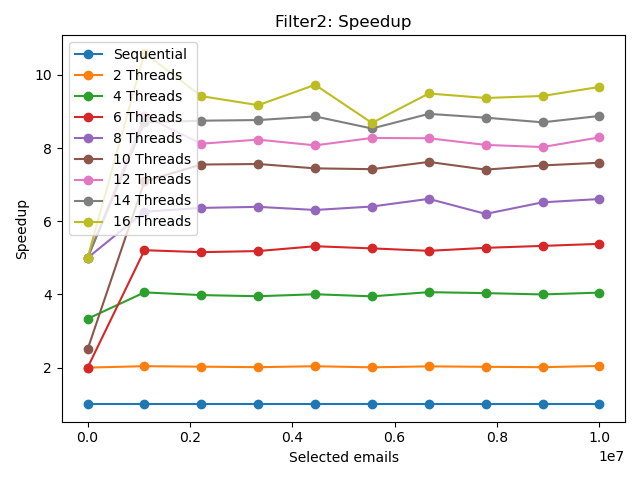
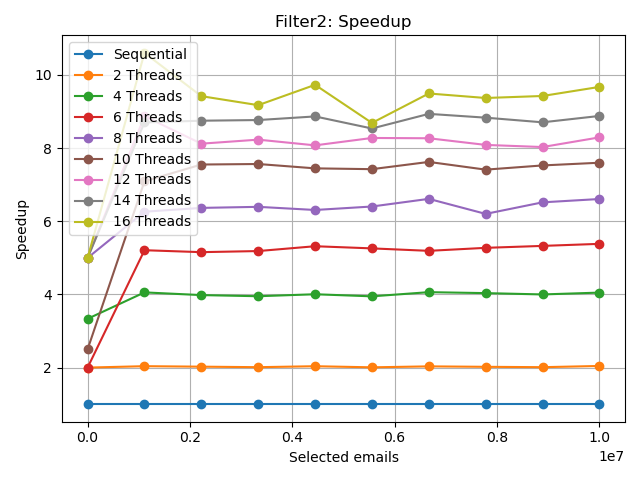
refactor project

diff --git a/plot_bf_results.py b/plot_bf_results.py
@@ -4,84 +4,112 @@ import matplotlib.pyplot as plt
 
 def plot():
     # Read the setup.csv file
-    df = pd.read_csv('./results/csv/setup.csv', sep=';')
+    fprs = ['001', '005', '010']
+    for fpr in fprs:
+        df = pd.read_csv('./results/openmp/'+fpr+'/setup.csv', sep=';')
 
-    tests = [2, 4, 6, 8, 10, 12, 14, 16]
-    # Plot execution times
-    plt.figure()
-    plt.title('Setup: Execution times')
-    plt.plot(df['test'], df['tSeq'], '-o', label='Sequential')
-    for i in tests:
-        plt.plot(df['test'], df['tPar{}'.format(i)], '-o', label='{} Threads'.format(i))
-    plt.xlabel('Selected emails')
-    plt.ylabel('Time (s)')
-    plt.tight_layout()
-    plt.legend()
-    plt.savefig('./results/csv/setup_times.png')
+        tests = [2, 4, 6, 8, 10, 12, 14, 16]
+        # Plot execution times
+        plt.figure()
+        plt.title('Setup: Execution times')
+        plt.plot(df['test'], df['tSeq'], '-o', label='Sequential')
+        for i in tests:
+            plt.plot(df['test'], df['tPar{}'.format(i)], '-o', label='{} Threads'.format(i))
+        plt.xlabel('Selected emails')
+        plt.ylabel('Time (s)')
+        plt.tight_layout()
+        plt.legend()
+        plt.grid()
+        plt.savefig('./results/openmp/'+str(fpr)+'/setup_times.png')
 
-    # Plot speedup
-    plt.figure()
-    plt.title('Setup: Speedup')
-    plt.plot(df['test'], df['tSeq']/df['tSeq'], '-o', label='Sequential')
-    for i in tests:
-        plt.plot(df['test'], df['speedUp{}'.format(i)], '-o', label='{} Threads'.format(i))
-    plt.xlabel('Selected emails')
-    plt.ylabel('Speedup')
-    plt.legend()
-    plt.tight_layout()
-    plt.savefig('./results/csv/setup_speedup.png')
+        # Plot speedup
+        plt.figure()
+        plt.title('Setup: Speedup')
+        plt.plot(df['test'], df['tSeq']/df['tSeq'], '-o', label='Sequential')
+        for i in tests:
+            plt.plot(df['test'], df['speedUp{}'.format(i)], '-o', label='{} Threads'.format(i))
+        plt.xlabel('Selected emails')
+        plt.ylabel('Speedup')
+        plt.legend()
+        plt.tight_layout()
+        plt.grid()
+        plt.savefig('./results/openmp/'+str(fpr)+'/setup_speedup.png')
 
-    # Read the filter.csv file
-    df = pd.read_csv('./results/csv/filter.csv', sep=';')
+        # Plot FPR
+        plt.figure()
+        plt.title('Setup: False Positive Rate')
+        plt.plot(df['test'], df['fpr'], '-o', label='Sequential')
+        plt.xlabel('Selected emails')
+        plt.ylabel('FPR')
+        plt.tight_layout()
+        plt.legend()
+        plt.grid()
+        plt.savefig('./results/openmp/'+str(fpr)+'/setup_fpr.png')
 
-    tests = [2, 4, 6, 8, 10, 12, 14, 16]
-    # Plot execution times Filter1
-    plt.figure()
-    plt.title('Filter1: Execution times')
-    plt.plot(df['test'], df['tSeq'], '-o', label='Sequential')
-    for i in tests:
-        plt.plot(df['test'], df['tPar{}'.format(i)], '-o', label='{} Threads'.format(i))
-    plt.xlabel('Selected emails')
-    plt.ylabel('Time (s)')
-    plt.legend()
-    plt.tight_layout()
-    plt.savefig('./results/csv/filter1_times.png')
+        # Read the filter.csv file
+        df = pd.read_csv('./results/openmp/'+str(fpr)+'/filter.csv', sep=';')
 
-    # Plot speedup Filter1
-    plt.figure()
-    plt.title('Filter1: Speedup')
-    plt.plot(df['test'], df['tSeq']/df['tSeq'], '-o', label='Sequential')
-    for i in tests:
-        plt.plot(df['test'], df['speedUp{}'.format(i)], '-o', label='{} Threads'.format(i))
-    plt.xlabel('Selected emails')
-    plt.ylabel('Speedup')
-    plt.legend()
-    plt.tight_layout()
-    plt.savefig('./results/csv/filter1_speedup.png')
+        tests = [2, 4, 6, 8, 10, 12, 14, 16]
+        # Plot execution times Filter1
+        plt.figure()
+        plt.title('Filter1: Execution times')
+        plt.plot(df['test'], df['tSeq'], '-o', label='Sequential')
+        for i in tests:
+            plt.plot(df['test'], df['tPar{}'.format(i)], '-o', label='{} Threads'.format(i))
+        plt.xlabel('Selected emails')
+        plt.ylabel('Time (s)')
+        plt.legend()
+        plt.grid()
+        plt.tight_layout()
+        plt.savefig('./results/openmp/'+str(fpr)+'/filter1_times.png')
 
-    plt.figure()
-    plt.title('Filter2: Execution times')
-    plt.plot(df['test'], df['tSeq'], '-o', label='Sequential')
-    for i in tests:
-        plt.plot(df['test'], df['tPar{}'.format(i)+'Type2'], '-o', label='{} Threads'.format(i))
-    plt.xlabel('Selected emails')
-    plt.ylabel('Time (s)')
-    plt.legend()
-    plt.tight_layout()
-    plt.savefig('./results/csv/filter2_times.png')
+        # Plot speedup Filter1
+        plt.figure()
+        plt.title('Filter1: Speedup')
+        plt.plot(df['test'], df['tSeq']/df['tSeq'], '-o', label='Sequential')
+        for i in tests:
+            plt.plot(df['test'], df['speedUp{}'.format(i)], '-o', label='{} Threads'.format(i))
+        plt.xlabel('Selected emails')
+        plt.ylabel('Speedup')
+        plt.legend()
+        plt.grid()
+        plt.tight_layout()
+        plt.savefig('./results/openmp/'+str(fpr)+'/filter1_speedup.png')
 
-    plt.figure()
-    plt.title('Filter2: Speedup')
-    plt.plot(df['test'], df['tSeq']/df['tSeq'], '-o', label='Sequential')
-    for i in tests:
-        plt.plot(df['test'], df['speedUp{}'.format(i)+'Type2'], '-o', label='{} Threads'.format(i))
-    plt.xlabel('Selected emails')
-    plt.ylabel('Speedup')
-    plt.legend()
-    plt.tight_layout()
-    plt.savefig('./results/csv/filter2_speedup.png')
+        plt.figure()
+        plt.title('Filter2: Execution times')
+        plt.plot(df['test'], df['tSeq'], '-o', label='Sequential')
+        for i in tests:
+            plt.plot(df['test'], df['tPar{}'.format(i)+'Type2'], '-o', label='{} Threads'.format(i))
+        plt.xlabel('Selected emails')
+        plt.ylabel('Time (s)')
+        plt.legend()
+        plt.grid()
+        plt.tight_layout()
+        plt.savefig('./results/openmp/'+str(fpr)+'/filter2_times.png')
 
-    # plt.show()
+        plt.figure()
+        plt.title('Filter2: Speedup')
+        plt.plot(df['test'], df['tSeq']/df['tSeq'], '-o', label='Sequential')
+        for i in tests:
+            plt.plot(df['test'], df['speedUp{}'.format(i)+'Type2'], '-o', label='{} Threads'.format(i))
+        plt.xlabel('Selected emails')
+        plt.ylabel('Speedup')
+        plt.legend()
+        plt.grid()
+        plt.tight_layout()
+        plt.savefig('./results/openmp/'+str(fpr)+'/filter2_speedup.png')
+
+        # Plot FPR
+        plt.figure()
+        plt.title('Filter: False Positive Rate')
+        plt.plot(df['test'], df['fpr'], '-o', label='Sequential')
+        plt.xlabel('Selected emails')
+        plt.ylabel('FPR')
+        plt.legend()
+        plt.grid()
+        plt.tight_layout()
+        plt.savefig('./results/openmp/'+str(fpr)+'/filter_fpr.png')
 
 
 if __name__ == '__main__':

diff --git a/src/bloomfilter/BloomFilter.cpp b/src/bloomfilter/BloomFilter.cpp
@@ -42,7 +42,6 @@ double BloomFilter::parallelSetup(std::string items[], std::size_t nItems) {
             }
         }
     }
-#pragma omp barrier
     return omp_get_wtime() - start;
 }
 
